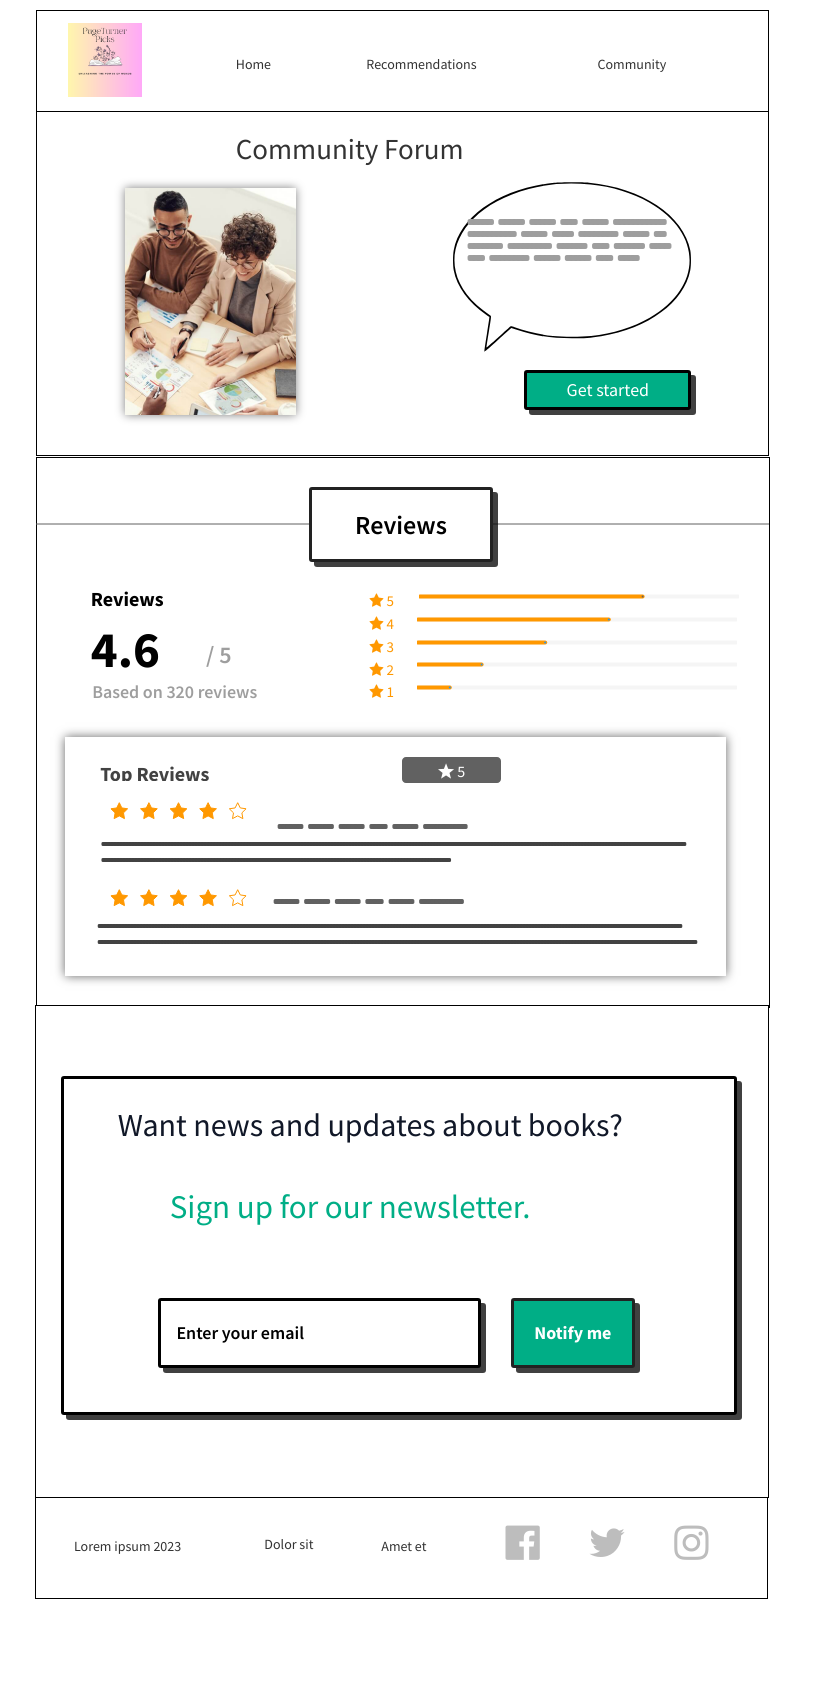
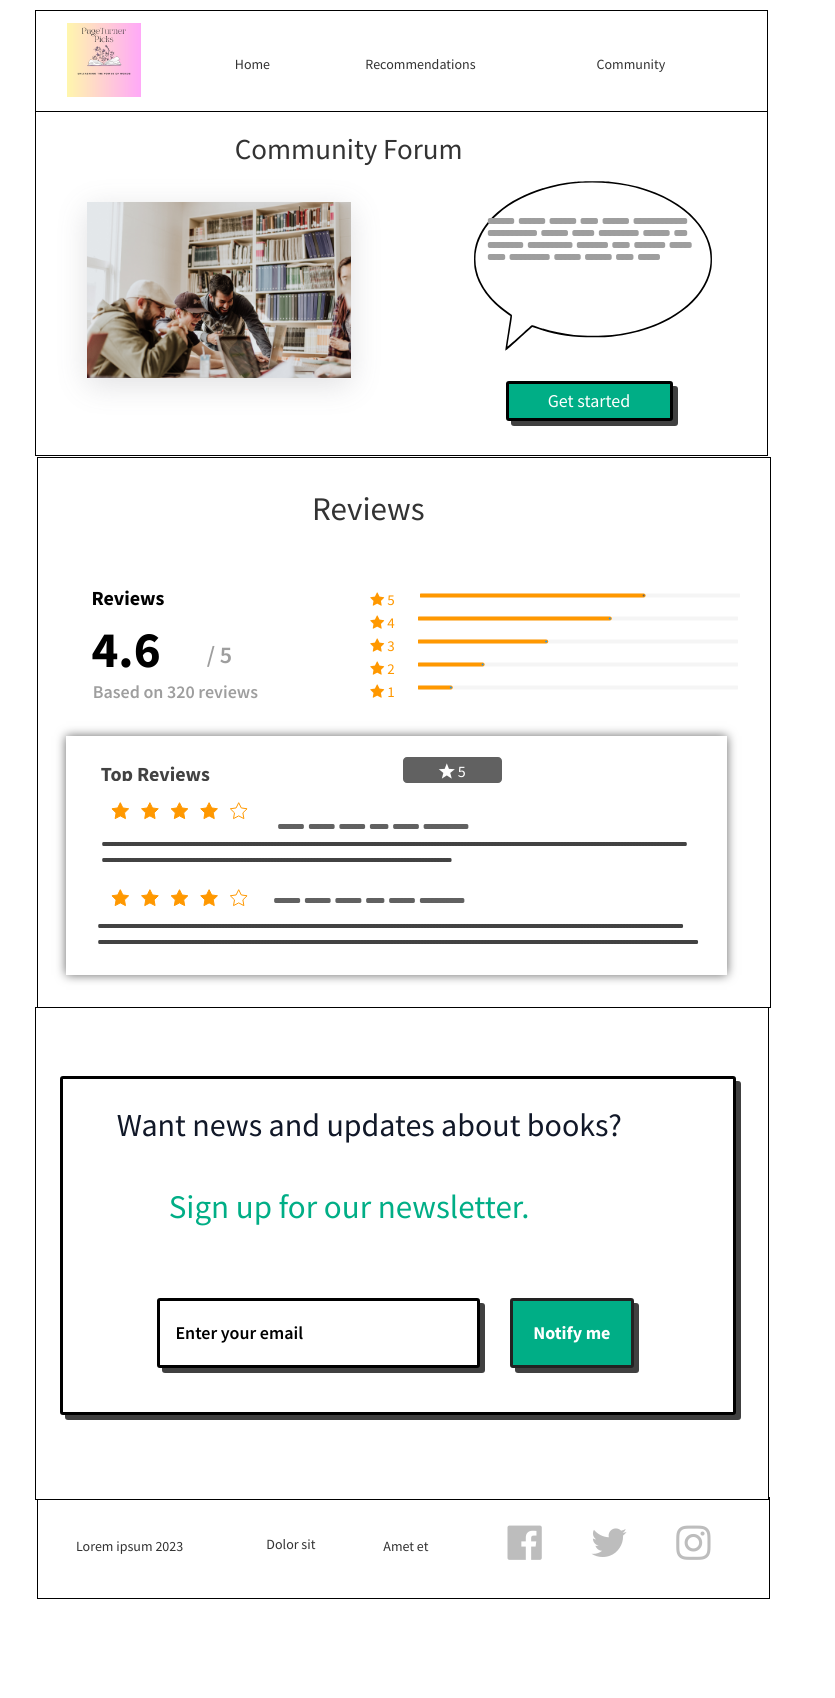
completed html programing of personal site

diff --git a/books/recommendations.html b/books/recommendations.html
@@ -1,0 +1,119 @@
+<!DOCTYPE html>
+<html lang="en">
+<head>
+    <meta charset="UTF-8">
+    <meta name="viewport" content="width=device-width, initial-scale=1.0">
+    <link rel="stylesheet" href="styles/style.css">
+    <title>PageTurner Picks | Recommendations</title>
+</head>
+<body>
+  <div id="content">
+    <header>
+        <a id="logo-link" href="index.html">
+            <img class="logo" src="PageTurner_ Picks.png" alt="PageTurner Picks logo">
+        </a>
+        <nav>
+            <a href="index.html">Home</a>
+            <a href="recommendations.html">Recommendations</a>
+            <a href="community.html">Community</a>
+            <a href="site-plan.html">Site Plan</a>
+        </nav>
+    </header>
+    <main class="home-grid">
+        <div id="featured">
+            <div id="top">
+                <h1>Top Featured</h1>
+            </div>
+            <section id="top-img">
+                <img class="books-img" src="it_ends_book1.jpg" alt="It Ends With Us">
+               <a class="book-link" href="#">
+                    <h4>It end with us</h4>
+                    <h5>by Colleen Hoover</h5>
+                    <span class="fa fa-star checked">*</span>
+                    <span class="fa fa-star checked">*</span>
+                    <span class="fa fa-star checked">*</span>
+                    <span class="fa fa-star checked">*</span>
+                    <span class="fa fa-star checked">*</span>
+                </a>
+                <img class="books-img" src="fourth_book2.jpg" alt="Fourth Wing">
+                <a class="book-link" href="#">
+                    <h4>Fourth Wing</h4>
+                    <h5>by Rebecca Yarros</h5>
+                    <span class="fa fa-star checked">*</span>
+                    <span class="fa fa-star checked">*</span>
+                    <span class="fa fa-star checked">*</span>
+                    <span class="fa fa-star checked">*</span>
+                    <span class="fa fa-star">*</span>
+                </a>   
+                <img class="books-img" src="simply_book3.jpg" alt="Simply Lies">
+                <a class="book-link" href="#">
+                    <h4>Simply Lies</h4>
+                    <h5>by David Baldacci</h5>
+                    <span class="fa fa-star checked">*</span>
+                    <span class="fa fa-star checked">*</span>
+                    <span class="fa fa-star checked">*</span>
+                    <span class="fa fa-star checked">*</span>
+                    <span class="fa fa-star ">*</span> 
+                </a>
+            </section>
+        </div>
+        <hr>
+        <section id="recommends">
+            <h1>Recommendations</h1>
+            <div class="details">
+                <img class="detail-img" src="spare_book2.jpg" alt="Spare">
+                <h4>Spare</h4>
+                <h5>by Prince Harry</h5>
+                <a href="#" target="_blank">See Details</a>
+            </div>
+            <div class="details">
+                <img class="detail-img" src="killers_book4.jpg" alt="Killers of the Flower Moon">
+                <h4>Killers of the Flower Moon</h4>
+                <h5>David Grann</h5>
+                <a href="#" target="_blank">See Details</a>
+            </div>
+            <div class="details">
+                <img class="detail-img" src="silent_book3.jpg" alt="The Silent Patient">
+                <h4>The Silent Patient</h4>
+                <h5>by Alex Michaelidas</h5>
+                <a href="#" target="_blank">See Details</a>
+            </div>
+            <div class="details">
+                <img class="detail-img" src="hate_book4.jpg" alt="The hate you give">
+                <h4>The Hate you give</h4>
+                <h5>by Angie Thomas</h5>
+                <a href="#" target="_blank">See Details</a>
+            </div>
+            <div class="details">
+                <img class="detail-img" src="circe_book5.jpg" alt="Circe">
+                <h4>Circe</h4>
+                <h5>by Madeline Miller</h5>
+                <a href="#" target="_blank">See Details</a>
+            </div>
+            <div class="details">
+                <img class="detail-img" src="sing_book6.jpg" alt="Where the Crawdads Sing">
+                <h4>Where the Crawdads Sing</h4>
+                <h5>by Delia Owens</h5>
+                <a href="#" target="_blank">See Details</a>
+            </div>
+        </section>
+    </main>
+    <footer>
+        <p>PageTurner Picks &copy; 2023- Mansi Jain</p>
+        <p><a href="site-plan.html">Site Plan</a></p>
+        <p><a href="community.html">Community</a></p>
+        <div class="social">
+            <a href="https://facebook.com" target="_blank">
+                <img src="facebook.png" alt="fb icon">
+            </a>
+            <a href="https://twitter.com" target="_blank">
+                <img src="twitter.png" alt="twitter icon">
+            </a>
+            <a href="https://instagram.com" target="_blank">
+                <img src="instagram.png" alt="instagram icon">
+            </a>
+        </div>
+    </footer>
+  </div>
+</body>
+</html>

diff --git a/books/index.html b/books/index.html
@@ -1,0 +1,69 @@
+<!DOCTYPE html>
+<html lang="en">
+<head>
+    <meta charset="UTF-8">
+    <meta name="viewport" content="width=device-width, initial-scale=1.0">
+    <link rel="stylesheet" href="styles/style.css">
+    <title>PageTurner Picks | Home</title>
+</head>
+<body>
+  <div id="content">
+    <header>
+        <a id="logo-link" href="index.html">
+            <img class="logo" src="PageTurner_ Picks.png" alt="PageTurner Picks logo">
+        </a>
+        <nav>
+            <a href="index.html">Home</a>
+            <a href="recommendations.html">Recommendations</a>
+            <a href="community.html">Community</a>
+            <a href="site-plan.html">Site Plan</a>
+        </nav>
+    </header>
+  </div>  
+  <div id="hero">
+    <div id="hero-box">
+        <img id="hero-img" src="turn.jpg" alt="Turn the page image">
+    </div>
+    <section id="hero-msg">
+        <h1 class="home-title">Embark on a Literary Journey</h1>
+        <div class="button-box">
+            <a class="button" href="recommendations.html">Let's go</a>
+        </div>
+    </section>
+    <main class="home-grid">
+        <section class="msg">
+            <p>Welcome to PageTurner Picks, your ultimate destination for book lovers. Discover captivating stories, diverse 
+                genres, and personalized recommendations tailored to your unique reading preferences. Immerse yourself in our 
+                expertly curated selection of thought-provoking novels, gripping thrillers, heartwarming romances, and more. 
+                Join our vibrant community, engage in lively discussions, and ignite your love for books. Start your literary 
+                adventure today with PageTurner Picks.</p>
+        </section>
+        <hr>
+        <section class="books">
+            <img class="books-img" src="shelf_1.jpg" alt="Image of books">
+            <h2>Recommendations</h2>
+        </section>
+        <section class="people">
+            <img class="people-img" src="discuss.jpg" alt="People discussing in a group">
+            <h2>Community Forum</h2>
+        </section>
+    </main>
+    <footer>
+        <p>PageTurner Picks &copy; 2023- Mansi Jain</p>
+        <p><a href="site-plan.html">Site Plan</a></p>
+        <p><a href="community.html">Community</a></p>
+        <div class="social">
+            <a href="https://facebook.com" target="_blank">
+                <img src="facebook.png" alt="fb icon">
+            </a>
+            <a href="https://twitter.com" target="_blank">
+                <img src="twitter.png" alt="twitter icon">
+            </a>
+            <a href="https://instagram.com" target="_blank">
+                <img src="instagram.png" alt="instagram icon">
+            </a>
+        </div>
+    </footer>
+  </div>
+</body>
+</html>

diff --git a/books/community.html b/books/community.html
@@ -1,0 +1,73 @@
+<!DOCTYPE html>
+<html lang="en">
+<head>
+    <meta charset="UTF-8">
+    <meta name="viewport" content="width=device-width, initial-scale=1.0">
+    <link rel="stylesheet" href="styles/style.css">
+    <style>
+        …
+    </style> 
+    <title>PageTurner Picks | Community</title>
+</head>
+<body>
+  <div id="content">
+    <header>
+        <a id="logo-link" href="index.html">
+            <img class="logo" src="PageTurner_ Picks.png" alt="PageTurner Picks logo">
+        </a>
+        <nav>
+            <a href="index.html">Home</a>
+            <a href="recommendations.html">Recommendations</a>
+            <a href="community.html">Community</a>
+            <a href="site-plan.html">Site Plan</a>
+        </nav>
+    </header>
+    <main class="home-grid">
+        <div id="home">
+            <h1>Community Forum</h1>
+            <img class="group-img" src="discuss.jpg" alt="People in a group">
+            <img class="comment" src="comment.png" alt="comment about community forum">
+            <a  class="start" href="#">
+                <img src="start.png" alt="get started">
+            </a>  
+        </div>
+        <hr>
+        <div id="review">
+            <h1 id="title">Reviews</h1>
+            <h1>4.6 / 5 </h1>
+            <img class="rating" src="rating_reviews.png" alt="Rafting">
+            <script class="link" src="https://static.elfsight.com/platform/platform.js" data-use-service-core defer>
+            </script>
+            <div class="elfsight-app-3dfffc15-8457-429e-a7df-e9c8a977ac59">   
+            </div>   
+        </div>
+        <hr>
+        <section id="feedback">
+            <form action="/my-handling-form-page" method="post"> 
+                <h1>Want news and updates about books?</h1>
+                <h2>Sign up for our newsletter.</h2>
+                <label for="mail">Email:</label>
+                <input type="email" id="mail" name="user_email" />
+                <button type="submit">Notify me</button>
+            </form>
+        </section>
+    </main>
+    <footer>
+        <p>PageTurner Picks &copy; 2023- Mansi Jain</p>
+        <p><a href="site-plan.html">Site Plan</a></p>
+        <p><a href="community.html">Community</a></p>
+        <div class="social">
+            <a href="https://facebook.com" target="_blank">
+                <img src="facebook.png" alt="fb icon">
+            </a>
+            <a href="https://twitter.com" target="_blank">
+                <img src="twitter.png" alt="twitter icon">
+            </a>
+            <a href="https://instagram.com" target="_blank">
+                <img src="instagram.png" alt="instagram icon">
+            </a>
+        </div>
+    </footer>
+  </div>
+</body>
+</html>

diff --git a/wwr/index.html b/wwr/index.html
@@ -28,7 +28,7 @@
             <h1 class="home-title">Have an adventure</h1>
             <h4>Make Memories with Adventurous Rafters</h4>
             <div class="button-box">
-                <a class="book" href="#">Book Now</a>
+                <a class="book" href="contactus.html">Book Now</a>
             </div>
         </section>
     </div>
@@ -56,7 +56,7 @@
             <p>Enjoy the breathtaking scenery. From valleys, meadows, canyons, and high peaks; it's way more than just the rapids.
                It's a great way to get away from it all and relax amongst all the beauty of the great outdoors.</p>
             <a class="join" href="rivers.html">Join Us</a>    
-            </section>     
+        </section>     
     </main>
     <footer>
         <p>Adventurous Rafters &copy; 2023- Mansi Jain</p>

diff --git a/books/site-plan.html b/books/site-plan.html
@@ -93,9 +93,9 @@
       </h3>
       <!-- Think about how you want your navigation bar to look. In the site-plan.css file change the colors to your colors to get the look you desire. --> 
       <nav>
-        <a href="#">Home</a>
-        <a href="#">Recommendations</a>
-        <a href="#">Community</a>
+        <a href="index.html">Home</a>
+        <a href="recommendations.html">Recommendations</a>
+        <a href="community.html">Community</a>
       </nav>
       <hr>
       <h2>

diff --git a/books/styles/style.css b/books/styles/style.css
@@ -1,0 +1,5 @@
+@import url('https://fonts.googleapis.com/css2?family=Alkatra:wght@600&family=Roboto&display=swap');
+
+.checked {
+    color: orange;
+}
